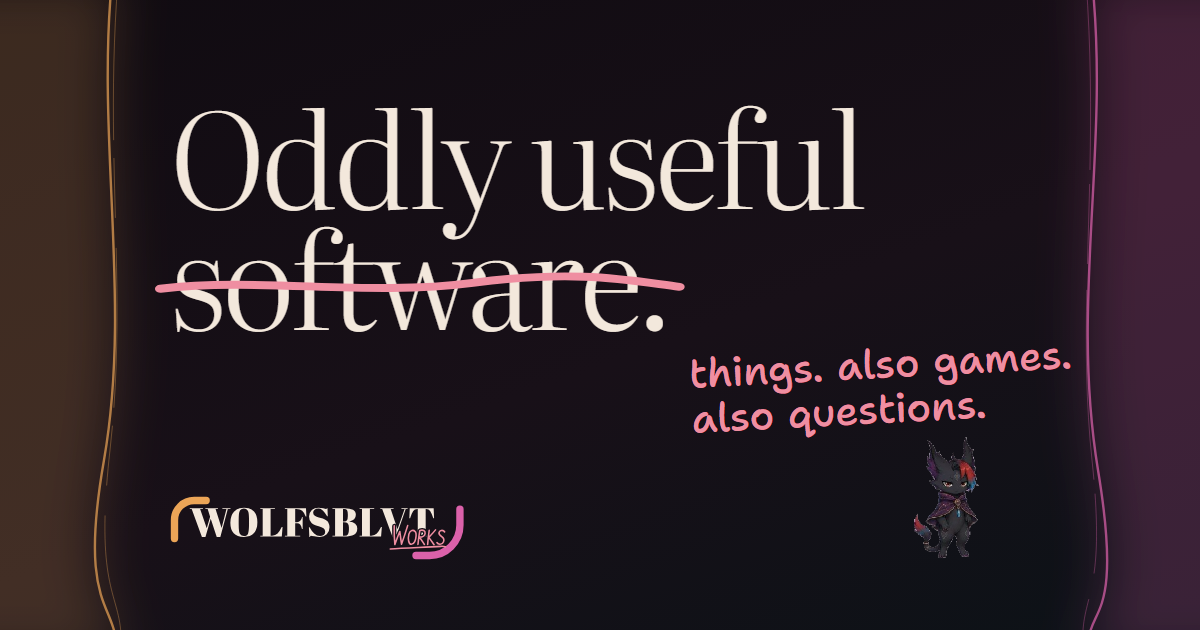
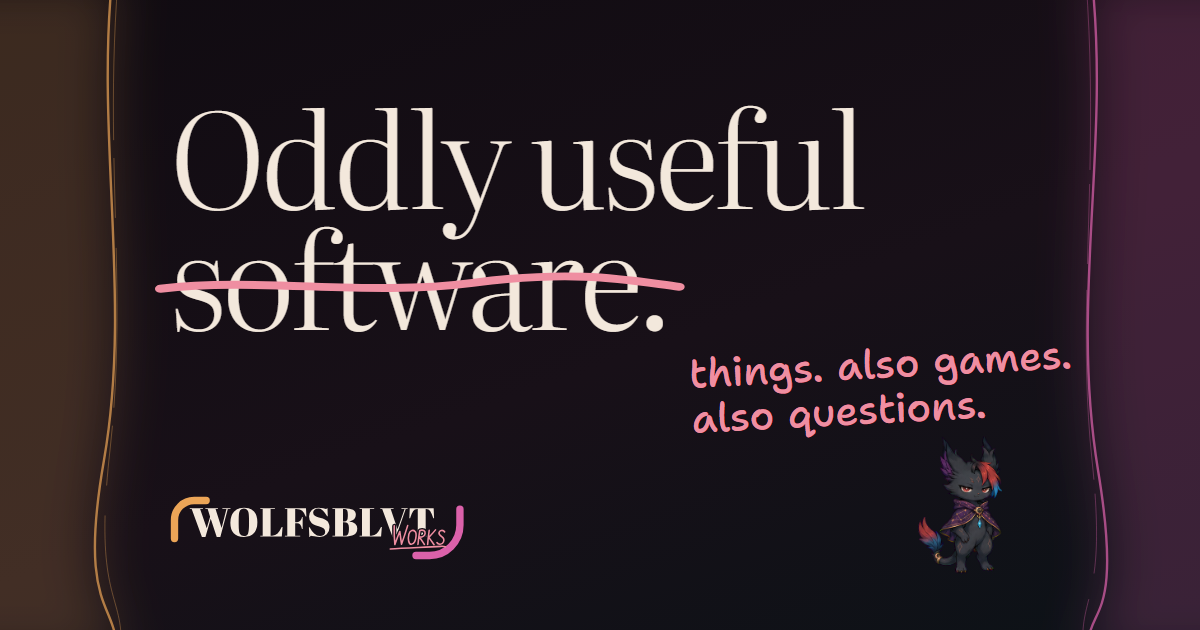
feat: show the new Yoru on the home page's social card
The home card still showed the May cutout. A new studio command, cutout, mattes a still the way frames are matted and crops to him; design/yoru/stills/standing.png is cut from the sprites' style anchor, so the card shows him as the site draws him now. Sized to keep his ears clear of the handwritten line; the contact card renders unchanged.

Co-authored-via: Tala | Claude Code | Opus 5.5

Changed region(s): [[0.74, 0.6937, 0.8325, 0.9048]]

diff --git a/design/yoru/README.md b/design/yoru/README.md
@@ -80,6 +80,14 @@ movement, not settling reversed, and write left-facing poses as drawn poses rath
 Check every candidate in the studio at 1× on both backgrounds, with the floor line and standing Yoru for scale,
 before selecting it. A clean contact sheet does not show jitter, sliding feet or a face that changes between frames.
 
+## Stills
+
+Static artwork that shows Yoru (the home page's social card) uses a still from `design/yoru/stills/`, not a frame of
+an old sheet. `npm run yoru -- cutout <source.png> <out.png>` mattes a drawing on flat magenta the way frames are
+matted, keeps the figure and crops to him; `stills/standing.png` is cut from the sprites' style anchor
+(`reference/style-standing.png`), so the card shows him as the site draws him. Re-render the cards with
+`npm run cards` after changing a still.
+
 ## Tempo
 
 A clip's `durations` set its rhythm; its `tempo` sets how fast the whole clip runs on the site (1 as written, 0.8 a
